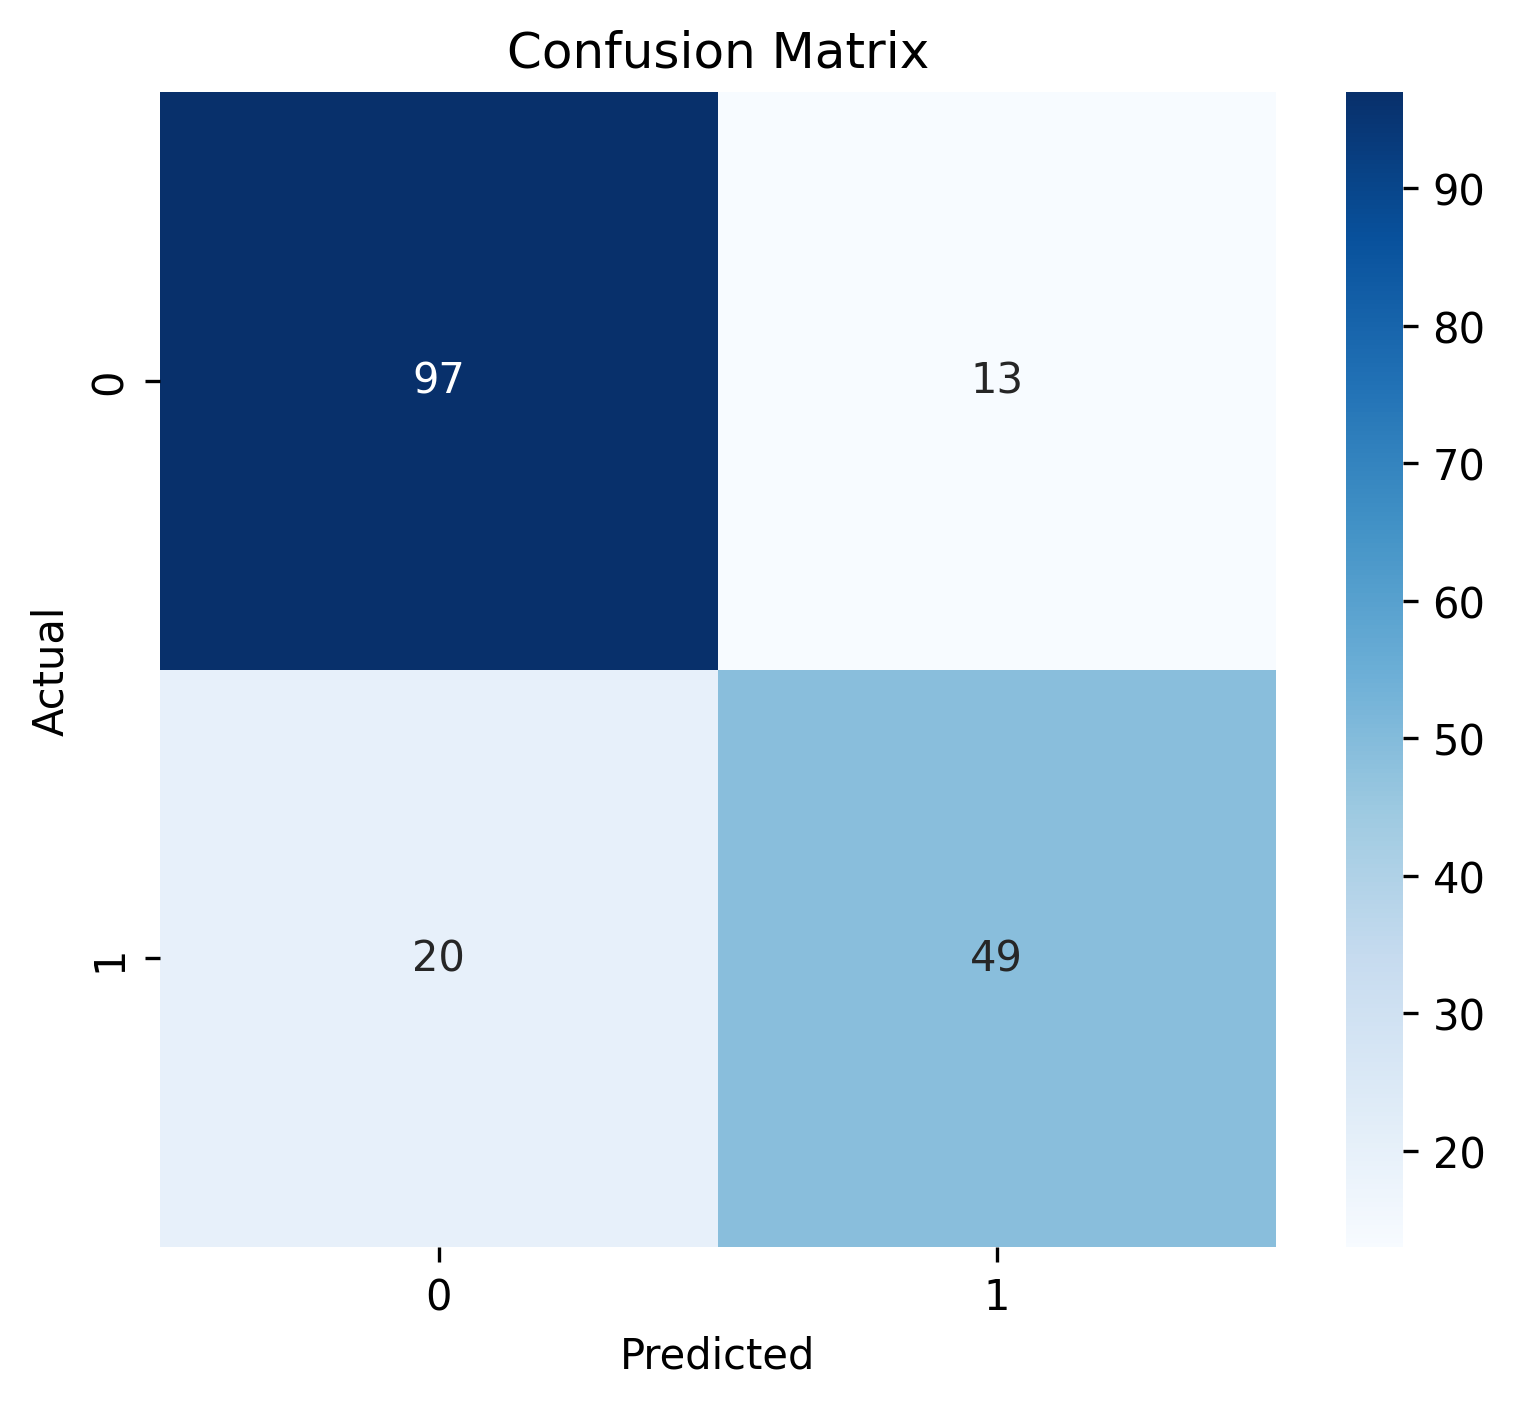
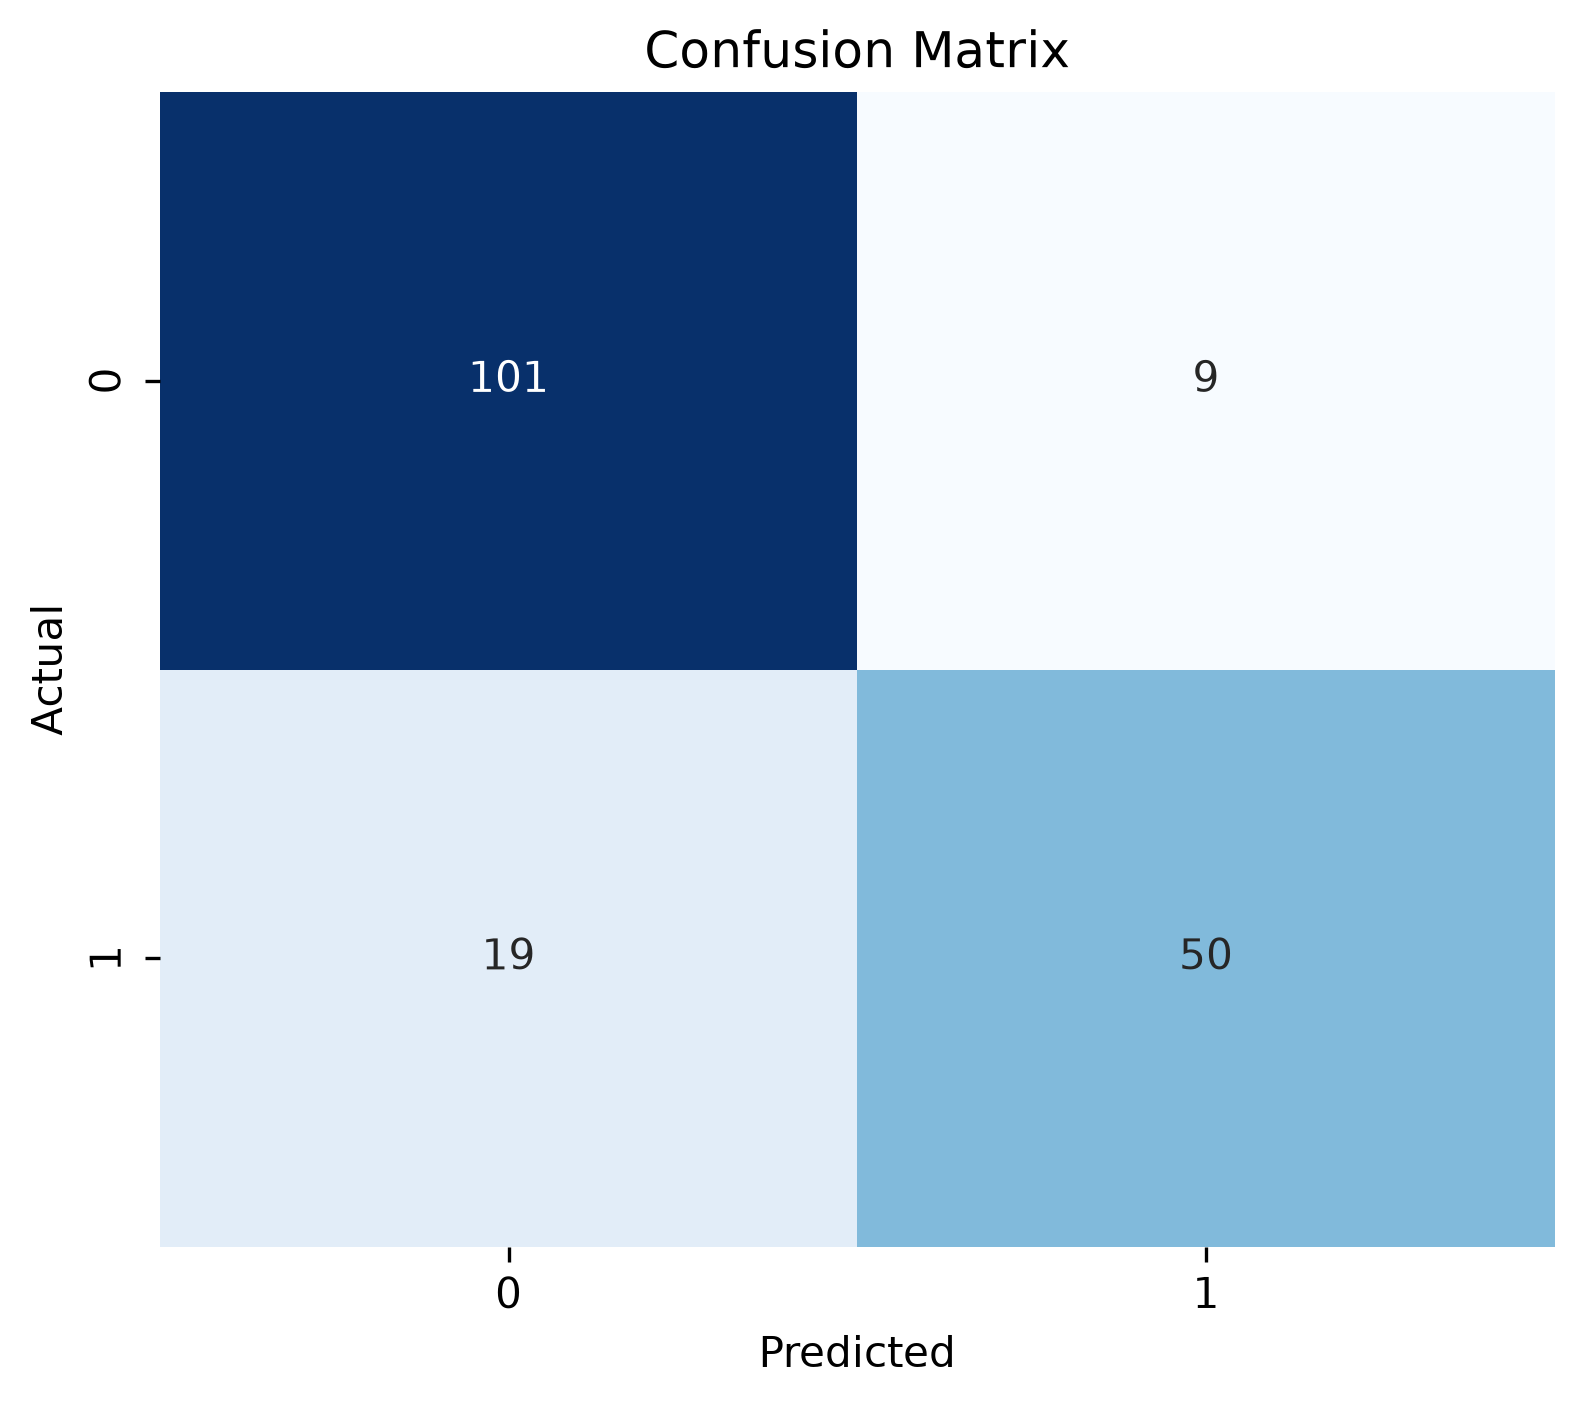
updated readme

diff --git a/README.md b/README.md
@@ -12,20 +12,20 @@ This repository keeps the model training and model serving environments separate
 
 ## Current Validated Model Performance
 
-The model was retrained with the pipeline in this repository and evaluated on a stratified 80/20 holdout split.
+The model was evaluated on a stratified 80/20 holdout split using the deterministic training pipeline.
 
 - Test set size: 179 passengers
-- Accuracy: 0.8156
-- Precision: 0.7900
-- Recall: 0.7101
-- F1-score: 0.7485
-- Confusion matrix: [[97, 13], [20, 49]]
+- Accuracy: 0.8436
+- Precision: 0.8475
+- Recall: 0.7246
+- F1-score: 0.7812
+- Confusion matrix: [[101, 9], [19, 50]]
 
 Interpretation:
-- TN = 97
-- FP = 13
-- FN = 20
-- TP = 49
+- TN = 101
+- FP = 9
+- FN = 19
+- TP = 50
 
 ## Architecture
 
